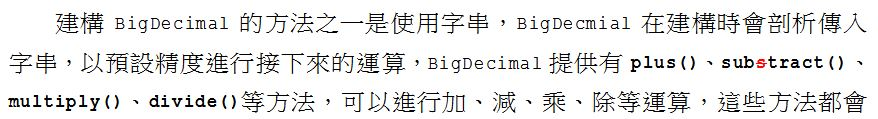
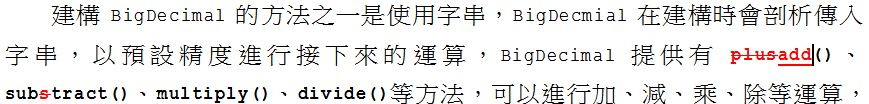
新增堪誤

Changed region(s): [[0.0, 0.75, 0.9942, 1.0], [0.0621, 0.0288, 0.9942, 0.2885], [0.0, 0.4327, 0.9942, 0.6346]]

diff --git a/correct_errors.md b/correct_errors.md
@@ -22,6 +22,14 @@
 
    ![P2-18](images/2_18_typo_1.JPG)
 
+## P2-20
+
+   ![P2-20](images/2_20_typo_1.JPG)
+
+## P3-25
+
+   ![P3-25](images/3_25_typo_1.JPG)
+
 ## P4-5
 
    ![P4-5](images/4_5_typo_1.JPG)
@@ -30,9 +38,21 @@
 
    ![P4-8](images/4_8_typo_1.JPG)
 
+## P4-13
+
+   ![P4-13](images/4_13_typo_1.JPG)
+
 ## P4-17
 
    ![P4-17](images/4_17_typo_1.JPG)
+
+## P4-19
+
+   ![P4-19](images/4_19_typo_1.JPG)
+
+## P4-32
+
+   ![P4-32](images/4_32_typo_1.JPG)
 
 ## P6-10
 
